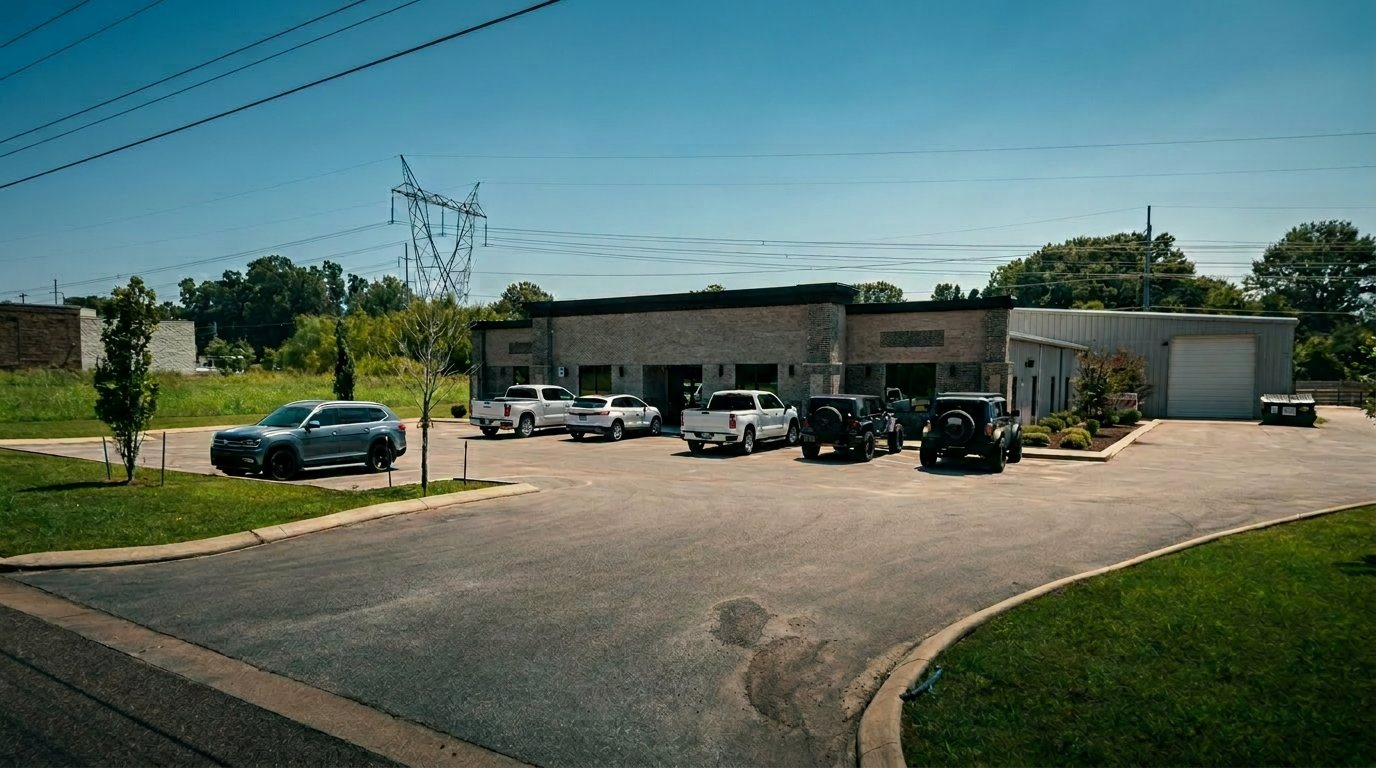
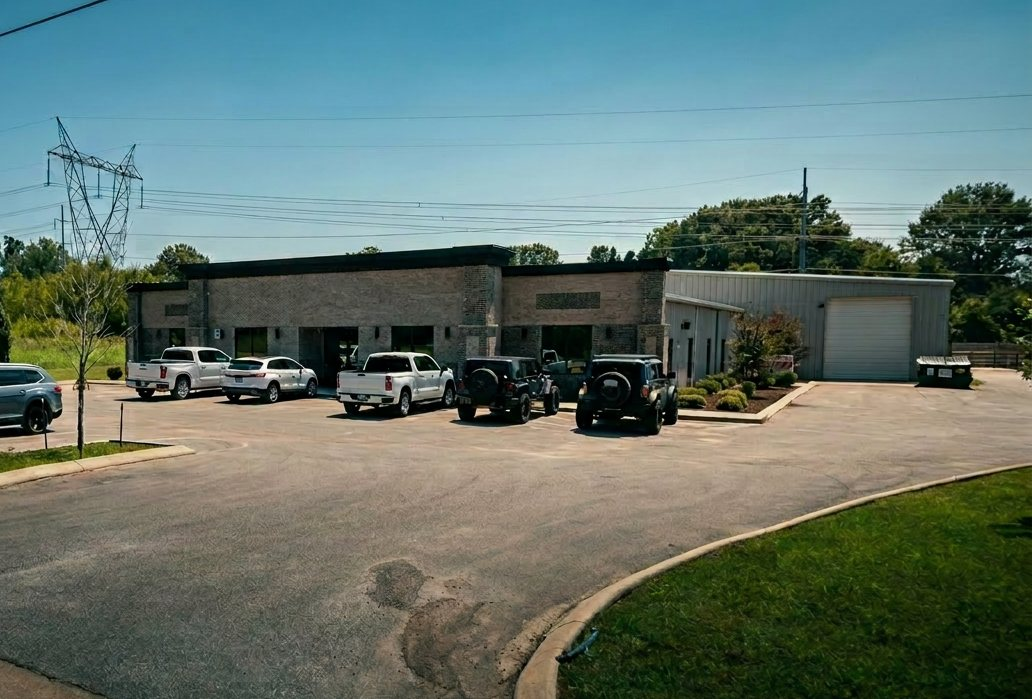
Service Area fixes: Michigan, heading, email, office crop
- Fix Michigan: the map dataset's path only had the Upper Peninsula; swapped
  in the complete Michigan (UP + Lower Peninsula) from the Wikimedia
  Blank_US_Map (states-only), same 959x593 coordinate system.
- Heading "Working across 26 states." -> "Our Mission." (eyebrow "Service Area").
- Contact email corrected to info@southernelectric.net.
- Re-crop the office photo so the building is left-weighted (shows more of it).

diff --git a/index.html b/index.html
@@ -458,8 +458,8 @@
     <div class="service-area-photo" aria-hidden="true"></div>
     <div class="container service-area-inner">
         <div class="service-area-text" data-reveal="right">
-            <div class="section-eyebrow">Our reach</div>
-            <h2 class="section-title">Working across 26 states.</h2>
+            <div class="section-eyebrow">Service Area</div>
+            <h2 class="section-title">Our Mission.</h2>
             <p class="service-area-lead">To become one of the nation&rsquo;s top-ranking electrical contractors. Southern Electric is committed to leading the industry in safety, workforce training and customer satisfaction. We meet and exceed customer expectations through our full line of electrical design, build and maintenance services &mdash; backed by state-of-the-art technology and financial strength &mdash; completing projects on time and on budget, and we keep adopting new technologies as they emerge to pursue the unique, challenging projects that build a culture of innovative thinking.</p>
             <p class="service-area-note">A Jackson, TN&ndash;based contractor holding a Tennessee CE&ndash;Unlimited license, licensed and at work across the Southeast, Midwest and beyond.</p>
             <div class="service-area-legend"><span class="swatch"></span> Service area</div>
@@ -488,7 +488,7 @@
 <path id="us-ma" class="st" d="M899.6,173.2L901.7,172.5L902.2,170.8L903.2,170.9L904.3,173.2L903,173.7L899.1,173.8L899.6,173.2zM890.2,174L892.5,171.4L894.1,171.4L895.9,172.9L893.5,173.9L891.3,174.9L890.2,174zM855.4,152L873,147.4L875.3,146.7L877.2,143.9L881,142.3L883.9,146.7L881.4,151.9L881.1,153.3L883,155.9L884.2,155.1L886,155.1L888.2,157.7L892.1,163.7L895.7,164.1L897.9,163.2L899.7,161.4L898.9,158.6L896.8,157L895.3,157.8L894.4,156.5L894.8,156.1L896.9,155.9L898.7,156.7L900.7,159.1L901.6,162L902,164.5L897.8,165.9L893.9,167.9L890,172.4L888.1,173.8L888.1,172.9L890.5,171.4L891,169.6L890.2,166.6L887.2,168L886.4,169.5L886.9,171.7L884.9,172.7L882.1,168.2L878.7,163.8L876.6,162L870.1,163.9L865,165L844.3,169.6L843.7,164.8L844.3,154.2L848.6,153.3L855.4,152z"/>
 <path id="us-md" class="st" d="M839.7,252.4L833.7,253.6L828.6,253.7L826.7,246.8L824.8,237.6L822.2,231.4L821,227L813.5,228.6L798.6,231.5L761.1,239L762.3,244L763.2,249.7L763.6,249.4L765.7,246.9L767.9,244.3L770.3,243.7L771.8,242.2L773.6,239.7L774.9,240.3L777.8,240L780.4,237.9L782.4,236.4L784.2,235.9L785.9,237.1L788.8,238.5L790.7,240.3L791.9,241.8L796,243.5L796,246.4L801.5,247.7L802.7,248.3L804.1,246.2L807,248.2L805.7,250.7L804.9,254.7L803.2,257.3L803.2,259.4L803.8,261.2L808.9,262.5L813.2,262.4L816.3,263.4L818.4,263.7L819.3,261.6L817.9,259.5L817.9,257.8L815.4,255.7L813.3,250.2L814.6,244.8L814.5,242.7L813.2,241.4 C 813.2,241.4 814.6,239.8 814.6,239.2 C 814.6,238.5 815.1,237.1 815.1,237.1L817.1,235.8L819,234.2L819.5,235.1L818,236.7L816.7,240.5L817.1,241.6L818.8,241.9L819.3,247.4L817.2,248.4L817.5,251.9L818,251.8L819.2,249.8L820.8,251.6L819.2,252.9L818.8,256.3L821.4,259.7L825.3,260.2L826.9,259.4L830.2,263.6L831.5,264.1L838.2,261.3L840.2,257.3L839.7,252.4zM823.8,261.4L824.9,263.9L825.1,265.7L826.2,267.5 C 826.2,267.5 827.1,266.6 827.1,266.3 C 827.1,266 826.4,263.3 826.4,263.3L825.6,260.9L823.8,261.4z"/>
 <path id="us-me" class="st" d="M922.8,78.8L924.7,80.9L927,84.6L927,86.5L924.9,91.2L923,91.9L919.6,94.9L914.7,100.4 C 914.7,100.4 914.1,100.4 913.4,100.4 C 912.8,100.4 912.4,98.3 912.4,98.3L910.7,98.5L909.7,100L907.3,101.4L906.3,102.9L907.9,104.3L907.4,105L906.9,107.7L905,107.6L905,105.9L904.7,104.6L903.2,105L901.5,101.7L899.3,103L900.6,104.5L901,105.6L900.2,106.9L900.5,110L900.6,111.6L899,114.2L896.1,114.7L895.8,117.6L890.5,120.7L889.2,121.1L887.5,119.7L884.5,123.2L885.4,126.5L884,127.8L883.8,132.1L882.7,138.4L880.2,137.2L879.8,134.2L875.9,133L875.6,130.3L868.3,106.8L863.6,92.2L865,92.1L866.5,92.5L866.5,89.9L867.8,85.4L870.4,80.7L871.9,76.7L869.9,74.3L869.9,68.3L870.7,67.3L871.5,64.6L871.4,63.1L871.2,58.2L873,53.4L875.9,44.5L878,40.3L879.3,40.3L880.6,40.5L880.6,41.6L881.9,43.9L884.6,44.5L885.4,43.7L885.4,42.7L889.5,39.8L891.3,38L892.7,38.2L898.7,40.6L900.6,41.6L909.7,71.5L915.7,71.5L916.5,73.4L916.6,78.3L919.6,80.6L920.4,80.6L920.5,80.1L920,78.9L922.8,78.8zM901.9,108.9L903.4,107.4L904.8,108.4L905.3,110.9L903.6,111.8L901.9,108.9zM908.6,103L910.3,104.9 C 910.3,104.9 911.6,105 911.6,104.6 C 911.6,104.3 911.9,102.6 911.9,102.6L912.8,101.8L912,100L909.9,100.8L908.6,103z"/>
-<path id="us-mi" class="st" d="M581.61931,82.059006 L 583.4483,80.001402 L 585.62022,79.201221 L 590.99286,75.314624 L 593.27908,74.743065 L 593.73634,75.200319 L 588.59232,80.344339 L 585.27728,82.287628 L 583.21967,83.202124 L 581.61931,82.059006 z M 667.79369,114.18719 L 668.44033,116.69293 L 671.67355,116.85459 L 672.96684,115.64213 C 672.96684,115.64213 672.88601,114.18719 672.56269,114.02552 C 672.23936,113.86386 670.94608,112.16642 670.94608,112.16642 L 668.76366,112.40891 L 667.14704,112.57057 L 666.82372,113.7022 L 667.79369,114.18719 z M 567.49209,111.21318 L 568.20837,110.63278 L 570.9566,109.82447 L 574.51313,107.56123 L 574.51313,106.59126 L 575.15978,105.94462 L 581.14121,104.97466 L 583.56612,103.03473 L 587.93095,100.93315 L 588.09261,99.639864 L 590.03254,96.729975 L 591.8108,95.921673 L 593.10409,94.143408 L 595.36733,91.880161 L 599.73217,89.455254 L 604.42032,88.970273 L 605.55194,90.101896 L 605.22862,91.071859 L 601.51043,92.041822 L 600.05549,95.113371 L 597.79224,95.921673 L 597.30726,98.34658 L 594.88235,101.57979 L 594.55903,104.16636 L 595.36733,104.65134 L 596.3373,103.51972 L 599.89383,100.60983 L 601.18711,101.90311 L 603.45036,101.90311 L 606.68357,102.87307 L 608.13851,104.0047 L 609.59345,107.07625 L 612.34168,109.82447 L 616.22153,109.66281 L 617.67648,108.69285 L 619.29308,109.98613 L 620.90969,110.47112 L 622.20297,109.66281 L 623.33459,109.66281 L 624.9512,108.69285 L 628.99271,105.13632 L 632.38758,104.0047 L 639.01566,103.68138 L 643.54215,101.74145 L 646.12872,100.44817 L 647.58367,100.60983 L 647.58367,106.26794 L 648.06865,106.59126 L 650.97853,107.39957 L 652.91846,106.91458 L 659.06156,105.29798 L 660.19318,104.16636 L 661.64813,104.65134 L 661.64813,111.60274 L 664.88134,114.67429 L 666.17462,115.32093 L 667.4679,116.29089 L 666.17462,116.61421 L 665.36632,116.29089 L 661.64813,115.80591 L 659.54654,116.45255 L 657.28329,116.29089 L 654.05008,117.74584 L 652.27182,117.74584 L 646.45204,116.45255 L 641.27891,116.61421 L 639.33898,119.20078 L 632.38758,119.84742 L 629.96267,120.65572 L 628.83105,123.72727 L 627.53777,124.8589 L 627.05279,124.69724 L 625.59784,123.08063 L 621.07135,125.50554 L 620.42471,125.50554 L 619.29308,123.88893 L 618.48478,124.05059 L 616.54486,128.41543 L 615.57489,132.45694 L 612.39377,139.45774 L 611.21701,138.42347 L 609.84527,137.39215 L 607.90449,127.10413 L 604.36001,125.73408 L 602.30743,123.44785 L 590.18707,120.70437 L 587.3318,119.67473 L 579.10138,117.50199 L 571.21139,116.35887 L 567.49209,111.21318 z,M697.8,177.2L694.6,168.9L692.3,159.9L689.9,156.7L687.3,154.9L685.7,156L681.8,157.8L679.9,162.8L677.1,166.5L676,167.2L674.5,166.5 C 674.5,166.5 671.9,165.1 672.1,164.4 C 672.3,163.8 672.6,159.4 672.6,159.4L676,158.1L676.8,154.7L677.4,152.1L679.9,150.5L679.5,140.5L677.9,138.2L676.6,137.4L675.8,135.3L676.6,134.5L678.2,134.8L678.4,133.2L676,131L674.7,128.4L672.1,128.4L667.6,126.9L662.1,123.5L659.3,123.5L658.7,124.2L657.7,123.7L654.6,121.4L651.7,123.2L648.8,125.5L649.2,129L650.1,129.3L652.2,129.8L652.7,130.6L650.1,131.4L647.5,131.8L646.1,133.5L645.8,135.6L646.1,137.3L646.4,142.8L642.8,144.9L642.2,144.7L642.2,140.5L643.5,138.1L644.1,135.6L643.3,134.8L641.4,135.6L640.4,139.8L637.7,141L635.9,142.9L635.7,143.9L636.4,144.7L635.7,147.3L633.5,147.8L633.5,148.9L634.3,151.3L633.1,157.5L631.5,161.5L632.2,166.2L632.7,167.3L631.9,169.8L631.5,170.6L631.2,173.3L634.8,179.3L637.7,185.8L639.1,190.6L638.3,195.3L637.3,201.3L634.9,206.4L634.6,209.2L631.3,212.3L635.8,212.1L657.2,209.9L664.4,208.9L664.5,210.5L671.4,209.3L681.7,207.8L685.5,207.4L685.7,206.8L685.8,205.3L687.9,201.6L689.9,199.9L689.7,194.8L691.3,193.2L692.4,192.9L692.6,189.3L694.2,186.3L695.2,186.9L695.4,187.5L696.2,187.7L698.1,186.7L697.8,177.2z"/>
+<path id="us-mi" class="st" d="m 663.3,209.8 .1,1.4 21.4,-3.5 .5,-1.2 3.9,-5.9 v -4.3 l .8,-2.1 2.2,-.8 2,-7.8 1,-.5 1,.6 -.2,.6 -1.1,.8 .3,.9 .8,.4 1.9,-1.4 .4,-9.8 -1.6,-2.3 -1.2,-3.7 v -2.5 l -2.3,-4.4 v -1.8 l -1.2,-3.3 -2.3,-3 -2.9,-1 -4.8,3 -2.5,4.6 -.2,.9 -3,3.5 -1.5,-.2 -2.9,-2.8 -.1,-3.4 1.5,-1.9 2,-.2 1.2,-1.7 .2,-4 .8,-.8 1.1,-.1 .9,-1.7 -.2,-9.6 -.3,-1.3 -1.2,-1.2 -1.7,-1 -.1,-1.8 .7,-.6 1.8,.8 -.3,-1.7 -1.9,-2.7 -.7,-1.6 -1.1,-1.1 h -2.2 l -8.1,-2.9 -1.4,-1.7 -3.1,-.3 -1.2,.3 -4.4,-2.3 h -1.4 l .5,1 -2.7,-.1 .1,.6 .6,.6 -2.5,2.1 .1,1.8 1.5,2.3 1.5,.2 v .6 l -1.5,.5 -2.1,-.1 -2.8,2.5 .1,2.5 .4,5.8 -2.2,3.4 .8,-4.5 -.8,-.6 -.9,5.3 -1,-2.3 .5,-2.3 -.5,-1 .6,-1.3 -.6,-1.1 1,-1 v -1.2 l -1.3,.6 -1.3,3.1 -.7,.7 -1.3,2.4 -1.7,-.2 -.1,1.2 h -1.6 l .2,1.5 .2,2 -3,1.2 .1,1.3 1,1.7 -.1,5.2 -1.3,4.4 -1.7,2.5 1.2,1.4 .8,3.5 -1,2.5 -.2,2.1 1.7,3.4 2.5,4.9 1.2,1.9 1.6,6.9 -.1,8.8 -.9,3.9 -2,3.2 -.9,3.7 -2,3 -1.2,1 z m -95.8,-96.8 3,3.8 17,3.8 1.4,1 4,.8 .7,.5 2.8,-.2 4.9,.8 1.4,1.5 -1,1 .8,.8 3.8,.7 1.2,1.2 .1,4.4 -1.3,2.8 2,.1 1,-.8 .9,.8 -1.1,3.1 1,1.6 1.2,.3 .8,-1.8 2.9,-4.6 1.6,-6 2.3,-2 -.5,-1.6 .5,-.9 1,1.6 -.3,2.2 2.9,-2.2 .2,-2.3 2.1,.6 .8,-1.6 .7,.6 -.7,1.5 -1,.5 -1,2 1.4,1.8 1.1,-.5 -.5,-.7 1,-1.5 1.9,-1.7 h .8 l .2,-2.6 2,-1.8 7.9,-.5 1.9,-3.1 3.8,-.3 3.8,1.2 4.2,2.7 .7,-.2 -.2,-3.5 .7,-.2 4.5,1.1 1.5,-.2 2.9,-.7 1.7,.4 1.8,.1 v -1.1 l -.7,-.9 -1.5,-.2 -1.1,-.8 .5,-1.4 -.8,-.3 -2.6,.1 -.1,-1 1.1,-.8 .6,.8 .5,-1.8 -.7,-.7 .7,-.2 -1.4,-1.3 .3,-1.3 .1,-1.9 h -1.3 l -1.5,1 -1.9,.1 -.5,1.8 -1.9,.2 -.3,-1.2 -2.2,.1 -1,1.2 -.7,-.1 -.2,-.8 -2.6,.4 -.1,-4.8 1,-2 -.7,-.1 -1.8,1.1 h -2.2 l -3.8,2.7 -6.2,.3 -4.1,.8 -1.9,1.5 -1.4,1.3 -2.5,1.7 -.3,.8 -.6,-1.7 -1.3,-.6 v .6 l .7,.7 v 1.3 l -1.5,-.6 h -.6 l -.3,1.2 -2,-1.9 -1.3,-.2 -1.3,1.5 -3.2,-.1 -.5,-1.4 -2,-1.9 -1.3,-1.6 v -.7 l -1.1,-1.4 -2.6,-1.2 -3.3,-.1 -1.1,-.9 h -1.4 l -.7,.4 -2.2,2.2 -.7,1.1 -1,-.7 .2,-1 .8,-2.1 3.2,-5 .8,-.2 1.7,-1.9 .7,-1.6 3,-.6 .8,-.6 -.1,-1 -.5,-.5 -4.5,.2 -2,.5 -2.6,1.2 -1.2,1.2 -1.7,2.2 -1.8,1 -3.3,3.4 -.4,1.6 -7.4,4.6 -4,.5 -1.8,.4 -2.3,3 -1.8,.7 -4.4,2.3 z m 100.7,3.8 3.8,.1 .6,-.5 -.2,-2 -1.7,-1.8 -1.9,.1 -.1,.5 1.1,.4 -1.6,.8 -.3,1 -.6,-.6 -.4,.8 z m -75.1,-41.9 -2.3,.2 -2.7,1.9 -7.1,5.3 .8,1 1.8,.3 2.8,-2 -1.1,-.5 2.3,-1.6 h 1 l 3,-1.9 -.1,-.9 z m 41.1,62.8 v 1 l 2.1,1.6 -.2,-2.4 z m -.7,2.8 1.1,.1 v .9 h -1 z m 21.4,-21.3 v .9 l .8,-.2 v -.5 z m 4.7,3.1 -.1,-1.1 -1.6,-.2 -.6,-.4 h -.9 l -.4,.3 .9,.4 1.1,1.1 z m -18,1.2 -.1,1.1 -.3,.7 .2,2.2 .4,.3 .7,.1 .5,-.9 .1,-1.6 -.3,-.6 -.1,-1.1 z"/>
 <path id="us-mn" class="st" d="M475.2,128.8L474.7,120.3L472.9,113L471.1,99.5L470.6,89.7L468.8,86.3L467.2,81.2L467.2,70.9L467.9,67L466.1,61.6L496.2,61.6L496.5,53.4L497.2,53.2L499.4,53.7L501.4,54.5L502.2,60L503.6,66.2L505.2,67.8L510.1,67.8L510.4,69.2L516.7,69.6L516.7,71.7L521.6,71.7L521.9,70.4L523,69.2L525.3,68.6L526.6,69.6L529.5,69.6L533.4,72.1L538.7,74.6L541.1,75L541.6,74.1L543.1,73.6L543.5,76.5L546.1,77.8L546.6,77.3L547.9,77.5L547.9,79.6L550.5,80.5L553.6,80.5L555.2,79.7L558.4,76.5L561,76L561.8,77.8L562.3,79.1L563.3,79.1L564.2,78.3L573.1,78L574.9,81L575.6,81L576.3,79.9L580.7,79.6L580.1,81.9L576.2,83.7L566.9,87.8L562.1,89.8L559.1,92.3L556.6,95.9L554.4,99.8L552.6,100.6L548.1,105.6L546.8,105.8L542.5,108.5L540,111.7L539.8,114.9L539.9,123L538.5,124.6L533.4,128.4L531.2,134.4L534,136.6L534.7,139.9L532.9,143.1L533,146.8L533.4,153.6L536.4,156.6L539.8,156.6L541.7,159.7L545,160.2L548.9,165.9L556,170L558.1,172.9L558.8,179.3L477.6,180.5L477.2,144.8L476.8,141.8L472.7,138.4L471.5,136.5L471.5,134.9L473.6,133.3L475,132L475.2,128.8z"/>
 <path id="us-mo" class="st svc" style="--i:10" d="M558.4,248.1L555.9,245L554.7,242.7L490.4,245.1L488.1,245.2L489.3,247.7L489.1,250L491.6,253.9L494.7,258L497.8,260.8L500,261L501.5,261.9L501.5,264.9L499.6,266.5L499.2,268.8L501.2,272.2L503.7,275.2L506.3,277L507.6,288.6L507.9,324.7L508.2,329.4L508.6,334.8L531.1,333.9L554.3,333.2L575.1,332.4L586.7,332.2L588.9,335.6L588.2,338.9L585.1,341.3L584.6,343.2L589.9,343.6L593.8,342.9L595.5,337.5L596.2,331.6L598.3,329L600.9,327.6L600.9,324.5L602,322.6L600.3,320L598.9,321L596.9,318.8L595.7,314L596.5,311.5L594.5,308.1L592.7,303.5L587.9,302.7L580.9,297.1L579.2,293L580,289.8L582.1,283.7L582.5,280.9L580.6,279.8L573.7,279L572.7,277.3L572.6,273.1L567.1,269.7L560.1,261.9L557.8,254.6L557.6,250.4L558.4,248.1z"/>
 <path id="us-ms" class="st svc" style="--i:2" d="M631.5,459.3L631.3,460.6L626.1,460.6L624.6,459.7L622.5,459.4L615.7,461.4L614,460.6L611.4,464.8L610.3,465.5L609.1,463L608,459.2L604.6,456L605.7,450.4L605,449.5L603.2,449.7L595.3,450.6L570.7,451L570,448.7L570.8,440.4L574,434.7L579.2,425.6L578.7,423.1L580,422.5L580.4,420.5L578.1,418.5L578,416.3L576.1,412.2L576,406.2L577.4,403.8L577.1,400.3L575.4,397.3L576.9,395.8L575.3,393.3L575.8,391.6L577.4,385.1L579.8,383.1L579.2,380.7L582.9,375.4L585.7,374L585.5,372.4L585.2,370.7L588.1,365.1L590.4,363.9L590.6,363L627.9,359.1L628.1,365.4L628.2,382L627.4,413.1L627.3,427.1L630,445.9L631.5,459.3z"/>
@@ -659,7 +659,7 @@
                         </svg>
                         <div>
                             <strong>Email</strong><br>
-                            <a href="mailto:info@southern-electric.com">info@southern-electric.com</a>
+                            <a href="mailto:info@southernelectric.net">info@southernelectric.net</a>
                         </div>
                     </li>
                 </ul>
@@ -758,7 +758,7 @@
                 <h5>Contact</h5>
                 <ul>
                     <li><a href="#contact">Locations</a></li>
-                    <li><a href="mailto:info@southern-electric.com">Email us</a></li>
+                    <li><a href="mailto:info@southernelectric.net">Email us</a></li>
                 </ul>
             </div>
         </div>
